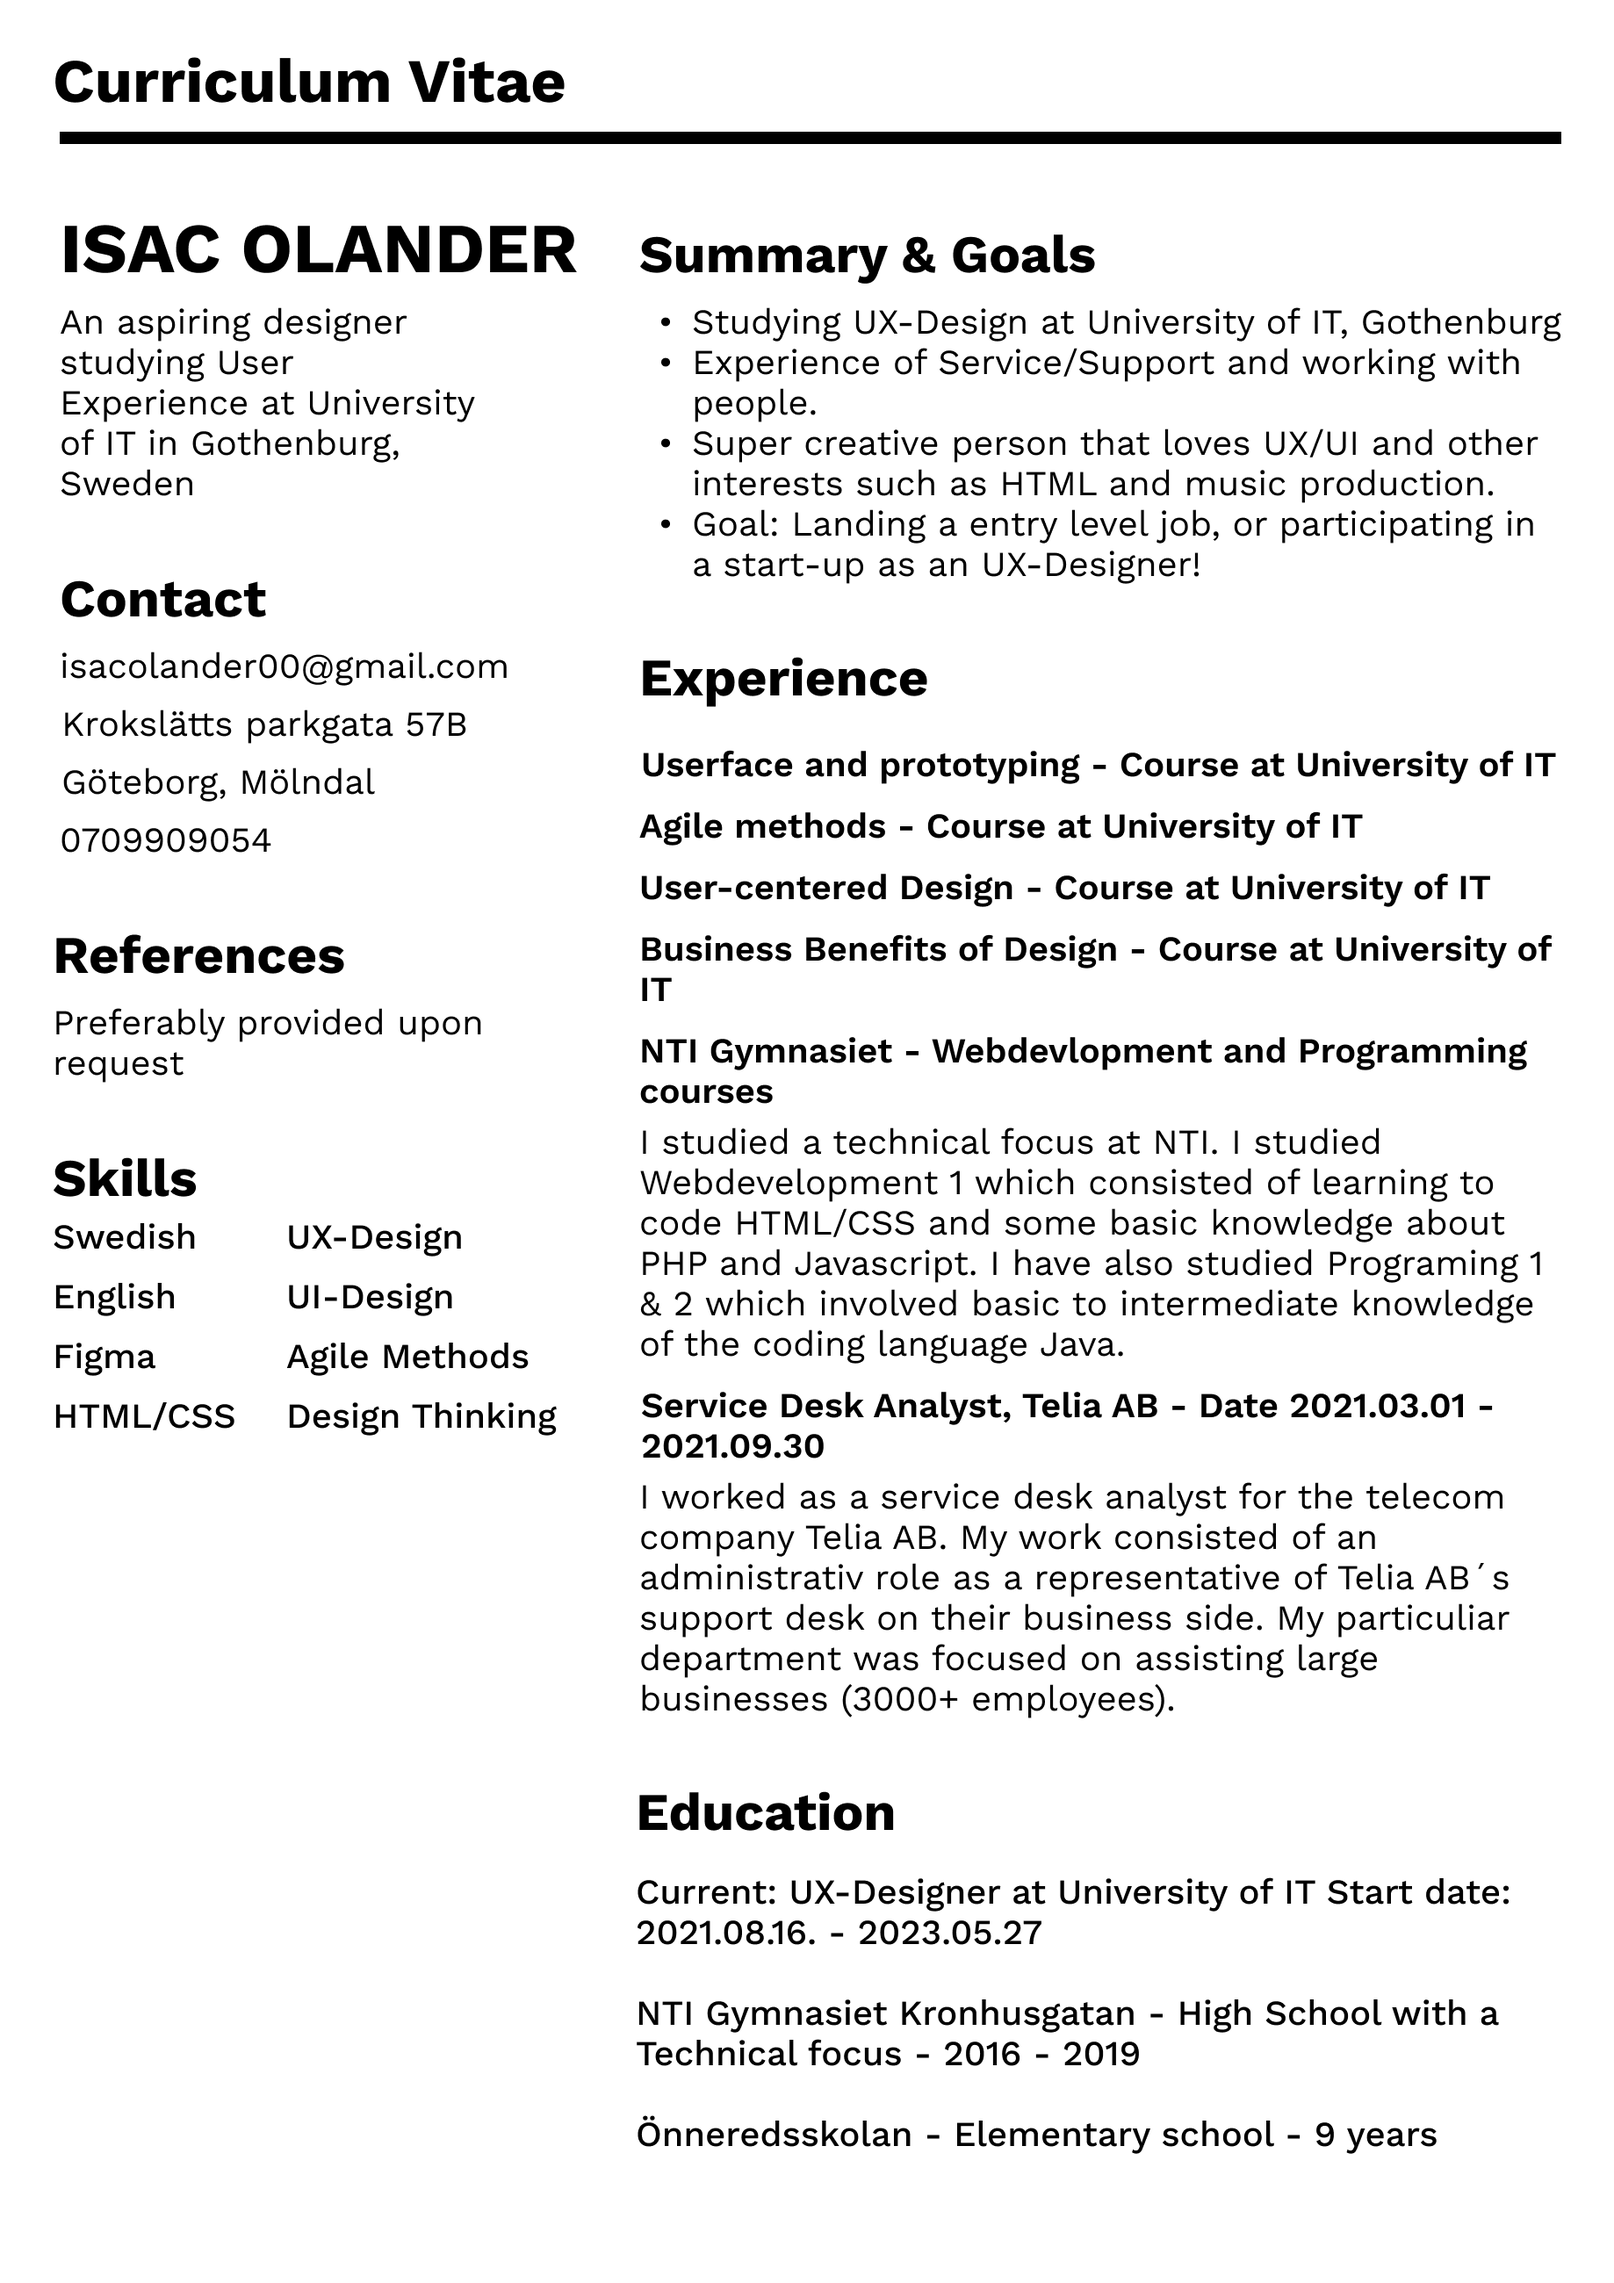
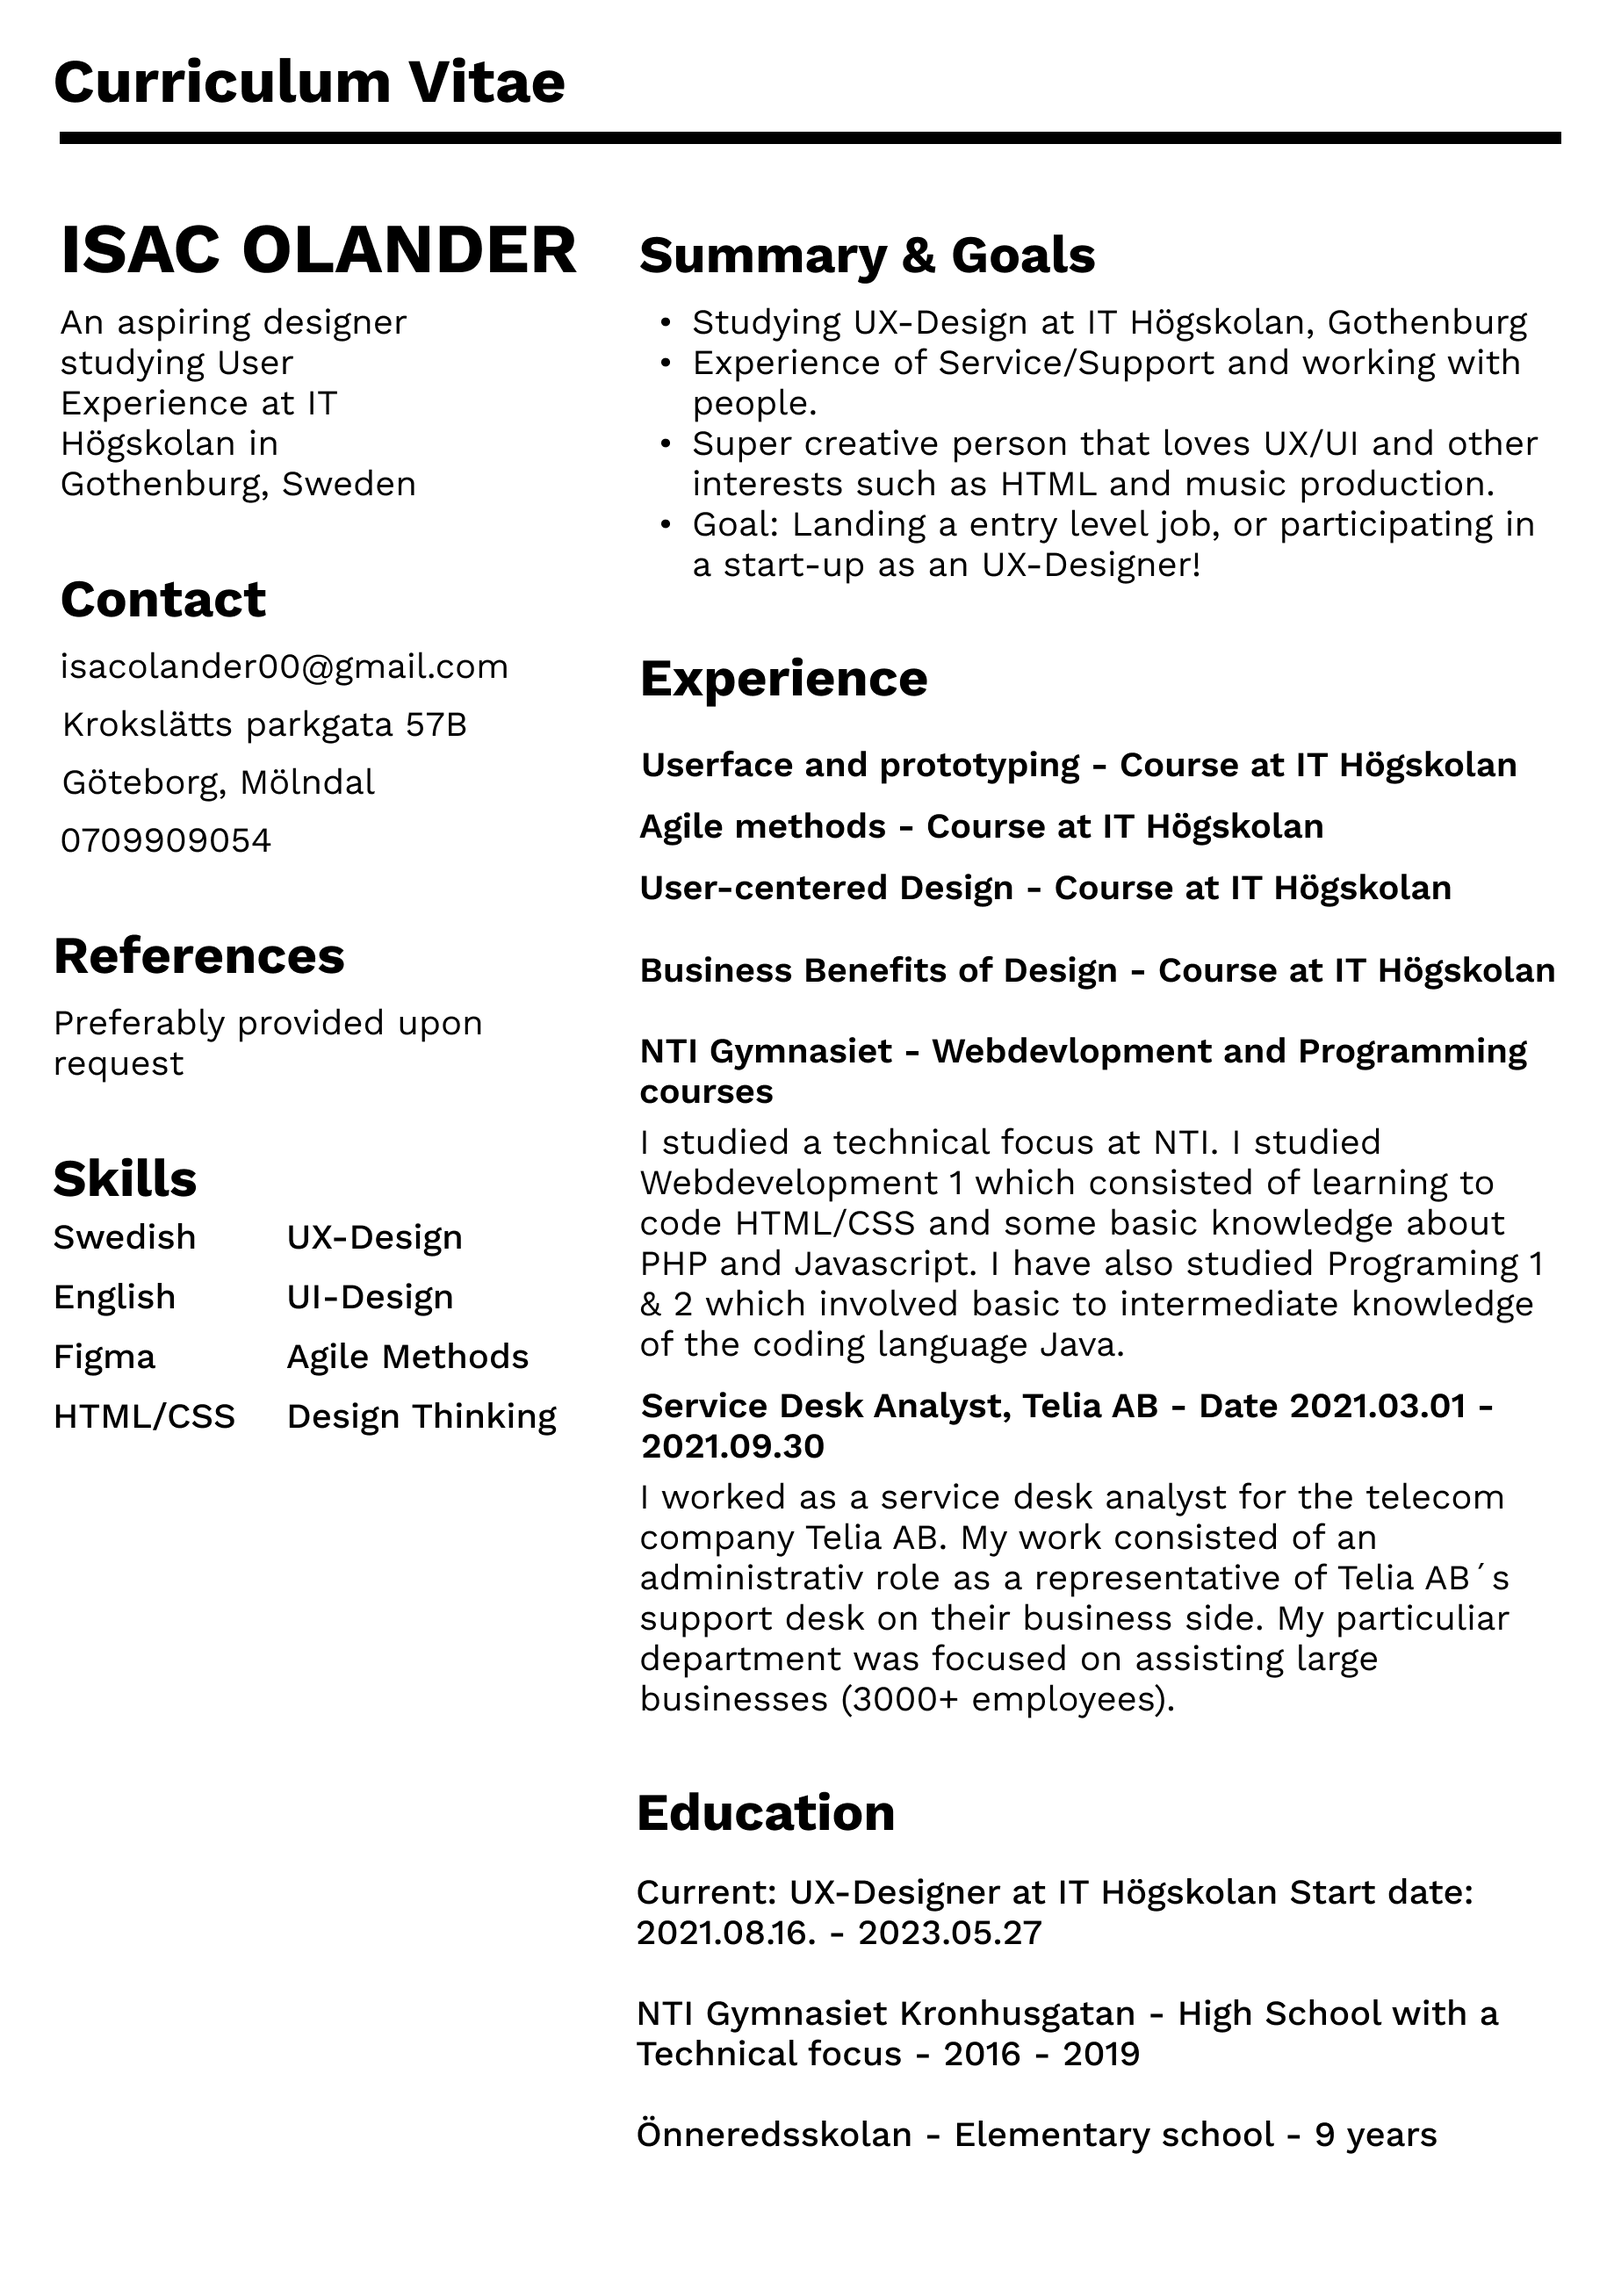
changes

diff --git a/index.html b/index.html
@@ -43,23 +43,23 @@
 
   <div id="AB"> About me </div>
 
-  <p id="text"> I am a super creative person who fell in love with UX-design. I have always been creatively inclined with music production and graphic design being a passion of mine for a long time. What made me apply for the UX-Design programme at the university I am attending was an UX course by Google.  <br>
+  <p id="text"> I am a super creative person who fell in love with UX-design. I have always been creatively inclined with music production and graphic design being a passion of mine for a long time. What made me apply for the UX-Design programme at IT Högskolan was an UX course by Google.  <br>
   <br>
   My goal is to land an entry-level job or participate in a start-up as soon as I am done with my studies... I also love HTML/CSS and designed and coded this website, <a id="talk2me" href="mailto:isacolander00@gmail.com"> I would love to talk about the process! </a> </p>
 
   <div id="Education"> Education and courses </div>
 
-    <p id="text"> Current: UX-Designer at University of IT Start date: 2021.08.16. - 2023.05.27 <br>
+    <p id="text"> Current: UX-Designer at IT Högskolan Start date: 2021.08.16. - 2023.05.27 <br>
       <br>
-      Userface and prototyping - Course at University of IT <br>
+      Userface and prototyping - Course at IT Högskolan <br>
       <br>
-      Agile methods - Course at University of IT <br>
+      Agile methods - Course at IT Högskolan <br>
       <br>
-      User-centered Design - Course at University of IT <br>
+      User-centered Design - Course at IT Högskolan <br>
       <br>
-      Business Benefits of Design - Course at University of IT<br>
+      Business Benefits of Design - Course at IT Högskolan<br>
       <br>
-      NTI Gymnasiet Kronhusgatan - High School Civil engineering and technical focus - 2016 - 2019 <br>
+      NTI Gymnasiet Kronhusgatan - High School Civil engineering with technical focus - 2016 - 2019 <br>
       <br>
     </p>
 

diff --git a/portfolio.html b/portfolio.html
@@ -56,7 +56,7 @@
 
         <div id="intro">
           <p id="summary">
-          This case study aims to showcase an in-depth examination of my progress from not knowing anything about personas to receiving an assignment of creating one with a group of classmates from my university. <br>
+          This case study aims to showcase an in-depth examination of my progress from not knowing anything about personas to receiving an assignment of creating one with a group of classmates from IT Högskolan. <br>
           <br>
           This study will also thoroughly explain my initial thoughts, what I did not know before I started this project, things I could have done better and what I have learned. </p>
           </div>
